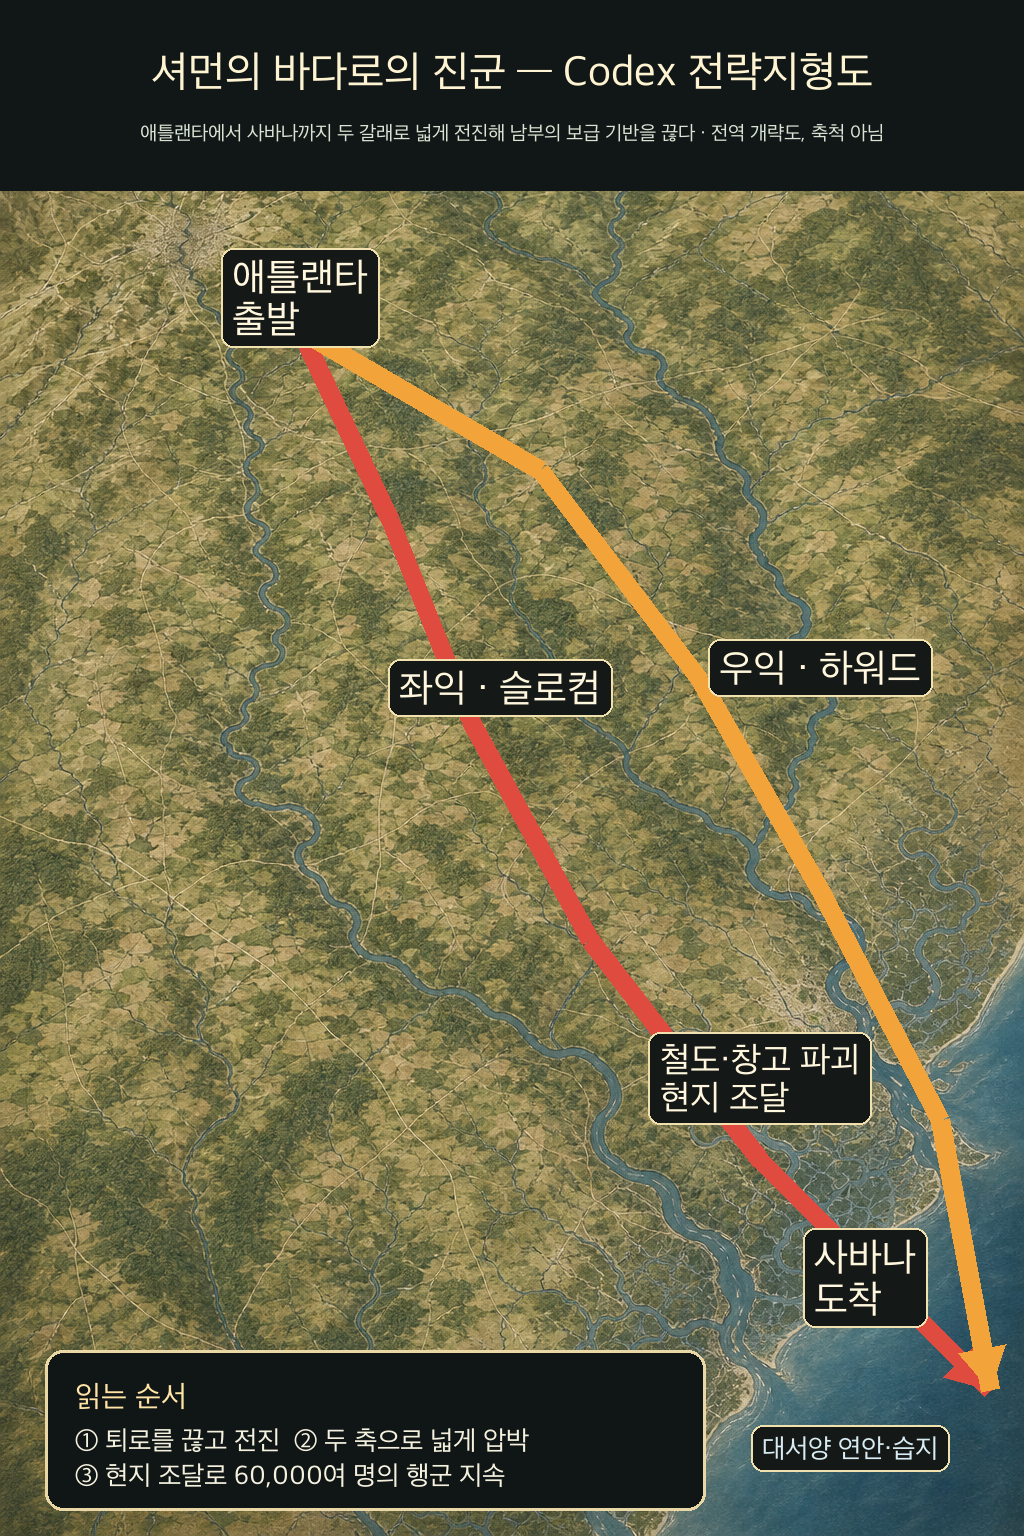
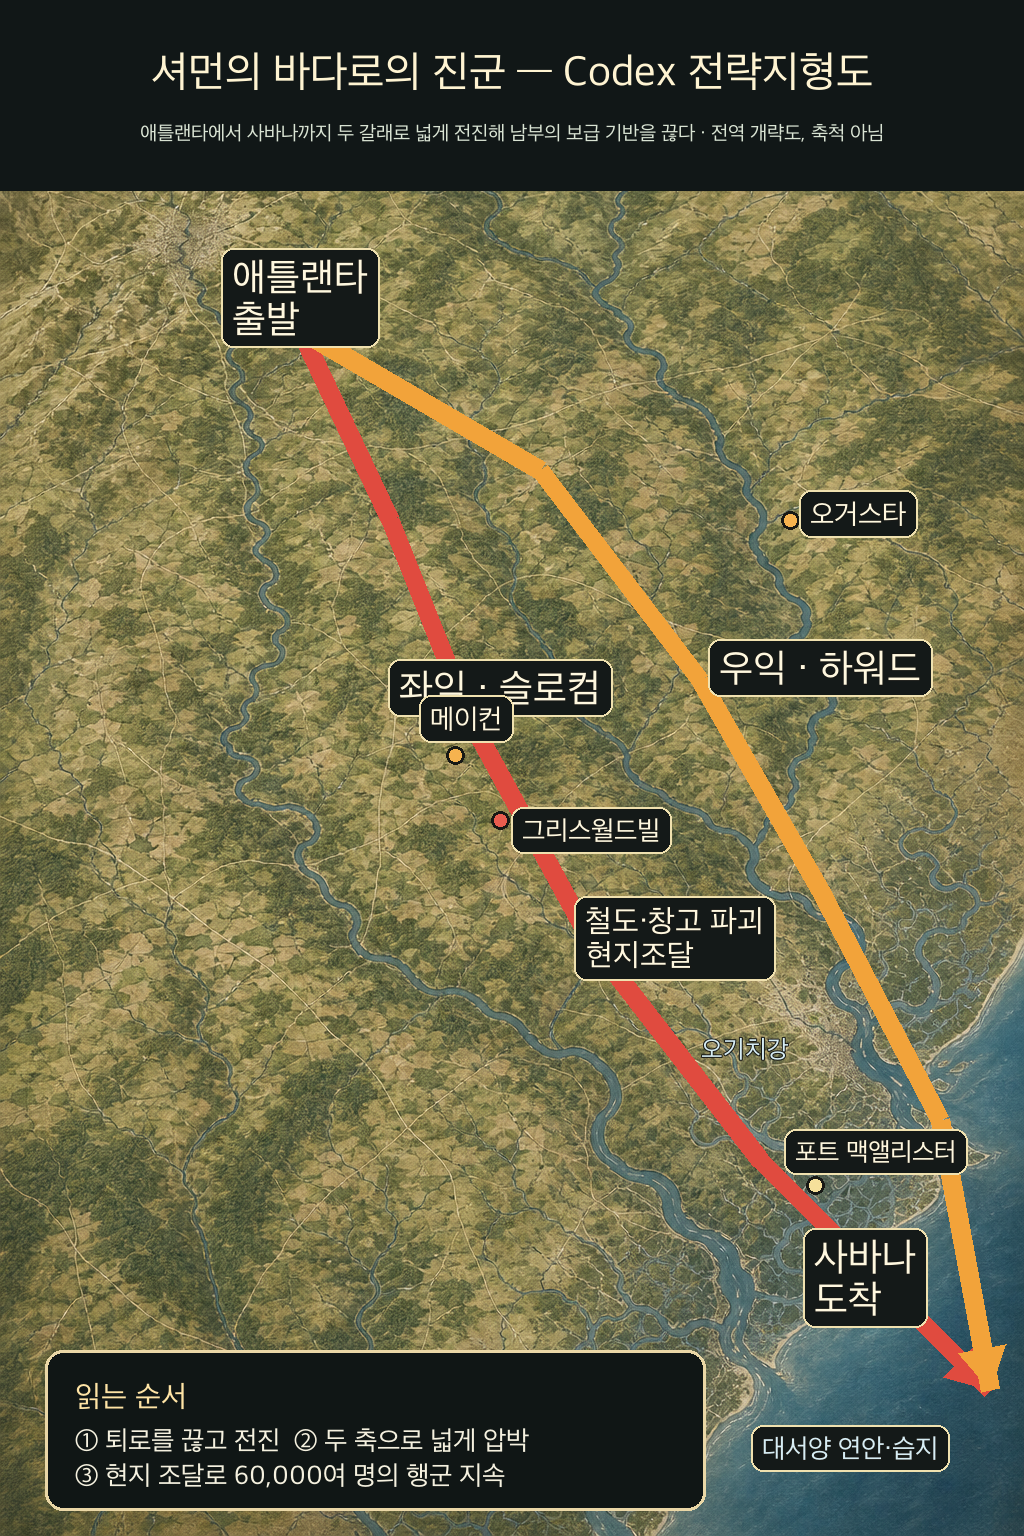
Add campaign sequence maps and narrative style rules

Changed region(s): [[0.4688, 0.5, 0.9375, 0.7812], [0.75, 0.3125, 0.9062, 0.375], [0.4062, 0.4375, 0.5, 0.5]]

diff --git a/손자병법/make_jiudi_11_codex_maps.py b/손자병법/make_jiudi_11_codex_maps.py
@@ -47,6 +47,13 @@ def label(draw, xy, text, *, size=42, fill="#fff8df", anchor="mm", box=True):
     draw.text(xy, text, font=font, fill=fill, anchor=anchor, stroke_width=1, stroke_fill="#171815")
 
 
+def site(draw, xy, text, *, color="#f7dd9b", dx=18, dy=-8, size=27):
+    """작은 거점 표식. 서사에 등장하는 지명을 지도에서 빠르게 찾게 한다."""
+    x, y = xy
+    draw.ellipse((x - 9, y - 9, x + 9, y + 9), fill=color, outline="#171815", width=3)
+    label(draw, (x + dx, y + dy), text, size=size, fill="#fff8df", anchor="lm")
+
+
 def arrow(draw, points, color, width=18):
     for a, b in zip(points, points[1:]):
         draw.line((a, b), fill=color, width=width, joint="curve")
@@ -89,7 +96,12 @@ def sherman_strategy():
         ((865, 1280), "사바나\n도착"),
     ]:
         label(draw, xy, txt, size=39)
-    label(draw, (760, 1080), "철도·창고 파괴\n현지 조달", size=35)
+    site(draw, (455, 755), "메이컨", color="#f6b34f", dx=-25, dy=-35, size=28)
+    site(draw, (790, 520), "오거스타", color="#f6b34f", dx=20, dy=-5, size=28)
+    site(draw, (500, 820), "그리스월드빌", color="#e95d4f", dx=22, dy=12, size=27)
+    site(draw, (815, 1185), "포트 맥앨리스터", color="#f6e09b", dx=-20, dy=-32, size=26)
+    label(draw, (745, 1050), "오기치강", size=25, fill="#d7edf4", box=False)
+    label(draw, (675, 940), "철도·창고 파괴\n현지조달", size=31)
     label(draw, (850, 1450), "대서양 연안·습지", size=27, fill="#d7edf4")
     draw.rounded_rectangle((45, 1350, 705, 1510), 18, fill=(16, 22, 21, 220), outline="#ead7a6", width=3)
     draw.text((75, 1380), "읽는 순서", font=pil_font(30), fill="#ffe4a5")
@@ -123,6 +135,10 @@ def sun_ce_strategy():
         label(draw, xy, txt, size=37)
     label(draw, (900, 500), "장강", size=43, fill="#d7edf4", box=False)
     label(draw, (765, 880), "승전 소문 →\n병력·호응 증가", size=35)
+    site(draw, (750, 1130), "고릉 방어선", color="#f6b34f", dx=-18, dy=-28, size=26)
+    site(draw, (820, 1210), "사독 우회로", color="#68c4b5", dx=-18, dy=18, size=26)
+    site(draw, (875, 1310), "회계", color="#e95d4f", dx=-20, dy=-30, size=27)
+    arrow(draw, [(735, 1110), (795, 1190), (875, 1310)], "#68c4b5", 12)
     draw.rounded_rectangle((45, 1350, 780, 1510), 18, fill=(16, 22, 21, 220), outline="#ead7a6", width=3)
     draw.text((75, 1380), "읽는 순서", font=pil_font(30), fill="#ffe4a5")
     draw.text(
@@ -207,8 +223,133 @@ def country_maps():
     )
 
 
+def sequence_panel(draw, box, title):
+    x0, y0, x1, y1 = box
+    draw.rounded_rectangle(box, radius=20, fill="#f7eed9", outline="#554a38", width=4)
+    draw.text((x0 + 24, y0 + 18), title, font=pil_font(34), fill="#211d17")
+    return x0, y0, x1, y1
+
+
+def node(draw, xy, text, color, *, size=26):
+    x, y = xy
+    draw.ellipse((x - 18, y - 18, x + 18, y + 18), fill=color, outline="#201b16", width=3)
+    draw.text((x, y + 28), text, font=pil_font(size), fill="#211d17", anchor="ma")
+
+
+def make_sequence_canvas(title, overview_path):
+    canvas = Image.new("RGB", (2400, 1600), "#e9ddc2")
+    draw = ImageDraw.Draw(canvas, "RGBA")
+    draw.rectangle((0, 0, 2400, 95), fill="#102235")
+    draw.text((40, 43), title, font=pil_font(50), fill="#fff1cf", anchor="lm")
+    overview = Image.open(overview_path).convert("RGB")
+    overview.thumbnail((970, 1460), Image.Resampling.LANCZOS)
+    canvas.paste(overview, (20, 115))
+    return canvas, draw
+
+
+def sherman_sequence():
+    canvas, draw = make_sequence_canvas(
+        "셔먼의 바다로의 진군 단계별 전략지형도",
+        ROOT / "sherman_march_codex_map.png",
+    )
+    panels = [
+        (1015, 115, 1695, 800),
+        (1710, 115, 2390, 800),
+        (1015, 815, 1695, 1500),
+        (1710, 815, 2390, 1500),
+    ]
+    # 1. 후드가 내민 추격전 거부
+    x0, y0, _, _ = sequence_panel(draw, panels[0], "1. 후드 추격 거부")
+    node(draw, (x0 + 175, y0 + 230), "애틀랜타", "#d94a3d")
+    node(draw, (x0 + 485, y0 + 170), "후드·테네시", "#164d86")
+    node(draw, (x0 + 475, y0 + 480), "조지아 내부", "#d94a3d")
+    arrow(draw, [(x0 + 210, y0 + 215), (x0 + 425, y0 + 175)], "#164d86", 13)
+    arrow(draw, [(x0 + 205, y0 + 245), (x0 + 430, y0 + 450)], "#d94a3d", 15)
+    draw.text((x0 + 55, y0 + 570), "토머스는 후드를 맡고\n셔먼은 반대 방향으로 진군", font=pil_font(28), fill="#3b3022")
+
+    # 2. 양익 기만
+    x0, y0, _, _ = sequence_panel(draw, panels[1], "2. 양익 기만·목표 은폐")
+    node(draw, (x0 + 120, y0 + 230), "애틀랜타", "#d94a3d", size=24)
+    node(draw, (x0 + 330, y0 + 430), "메이컨", "#f0a33a", size=24)
+    node(draw, (x0 + 500, y0 + 210), "오거스타", "#f0a33a", size=24)
+    node(draw, (x0 + 560, y0 + 520), "사바나", "#d94a3d", size=24)
+    arrow(draw, [(x0 + 145, y0 + 240), (x0 + 300, y0 + 405), (x0 + 535, y0 + 500)], "#d94a3d", 13)
+    arrow(draw, [(x0 + 145, y0 + 220), (x0 + 460, y0 + 220), (x0 + 550, y0 + 495)], "#f0a33a", 13)
+    draw.text((x0 + 45, y0 + 575), "하디: 메이컨 → 오거스타로 판단 변경\n병력이 움직일수록 사바나가 비었다", font=pil_font(26), fill="#3b3022")
+
+    # 3. 그리스월드빌
+    x0, y0, _, _ = sequence_panel(draw, panels[2], "3. 그리스월드빌의 오판")
+    draw.rectangle((x0 + 355, y0 + 240, x0 + 580, y0 + 285), fill="#164d86")
+    draw.text((x0 + 465, y0 + 310), "월컷 여단·방어진지", font=pil_font(25), fill="#211d17", anchor="ma")
+    for off in (0, 90, 180):
+        arrow(draw, [(x0 + 120 + off, y0 + 500), (x0 + 380 + off // 3, y0 + 300)], "#d94a3d", 12)
+    draw.text((x0 + 75, y0 + 190), "필립스는 숙련 보병을\n소규모 하마 기병으로 오판", font=pil_font(27), fill="#6b2821")
+    draw.text((x0 + 75, y0 + 580), "세 차례 정면 공격\n남군 약 650명 손실", font=pil_font(27), fill="#3b3022")
+
+    # 4. 보급로와 결말
+    x0, y0, _, _ = sequence_panel(draw, panels[3], "4. 포트 맥앨리스터·사바나")
+    node(draw, (x0 + 230, y0 + 400), "포트 맥앨리스터", "#f0a33a", size=23)
+    node(draw, (x0 + 500, y0 + 300), "사바나", "#d94a3d", size=25)
+    arrow(draw, [(x0 + 90, y0 + 500), (x0 + 210, y0 + 420)], "#d94a3d", 14)
+    arrow(draw, [(x0 + 570, y0 + 550), (x0 + 280, y0 + 430)], "#2b91b1", 14)
+    arrow(draw, [(x0 + 505, y0 + 280), (x0 + 590, y0 + 150)], "#164d86", 13)
+    draw.text((x0 + 55, y0 + 145), "하디 철수", font=pil_font(26), fill="#164d86")
+    draw.text((x0 + 55, y0 + 570), "헤이즌이 요새 점령\n함대의 정규 보급로가 열림", font=pil_font(27), fill="#3b3022")
+    canvas.save(ROOT / "sherman_march_codex_sequence_map.png", quality=95)
+
+
+def sun_ce_sequence():
+    canvas, draw = make_sequence_canvas(
+        "손책의 강동 평정 단계별 전략지형도",
+        ROOT / "sun_ce_jiangdong_codex_map.png",
+    )
+    panels = [
+        (1015, 115, 1695, 800),
+        (1710, 115, 2390, 800),
+        (1015, 815, 1695, 1500),
+        (1710, 815, 2390, 1500),
+    ]
+    # 1. 원술의 제한된 지원과 주유의 보강
+    x0, y0, _, _ = sequence_panel(draw, panels[0], "1. 작은 출발·주유 합류")
+    node(draw, (x0 + 150, y0 + 300), "손책 1,000여 명", "#d94a3d", size=24)
+    node(draw, (x0 + 500, y0 + 300), "주유", "#f0a33a", size=25)
+    arrow(draw, [(x0 + 460, y0 + 300), (x0 + 210, y0 + 300)], "#f0a33a", 14)
+    draw.text((x0 + 75, y0 + 450), "병력·선박·군량이 합쳐져\n도강 가능한 원정군이 됐다", font=pil_font(28), fill="#3b3022")
+
+    # 2. 나루와 창고
+    x0, y0, _, _ = sequence_panel(draw, panels[1], "2. 횡강·당리 도하, 우저 장악")
+    draw.line((x0 + 50, y0 + 300, x0 + 630, y0 + 300), fill="#4e9bb2", width=55)
+    node(draw, (x0 + 180, y0 + 300), "횡강", "#f0a33a", size=23)
+    node(draw, (x0 + 360, y0 + 300), "당리", "#f0a33a", size=23)
+    node(draw, (x0 + 540, y0 + 470), "우저 창고", "#d94a3d", size=23)
+    arrow(draw, [(x0 + 90, y0 + 160), (x0 + 210, y0 + 340), (x0 + 510, y0 + 440)], "#d94a3d", 14)
+    draw.text((x0 + 55, y0 + 575), "나루를 연 뒤 유요의 군량·병기를\n다음 공격의 보급으로 전환", font=pil_font(27), fill="#3b3022")
+
+    # 3. 유요와 태사자
+    x0, y0, _, _ = sequence_panel(draw, panels[2], "3. 유요가 쓰지 못한 태사자")
+    node(draw, (x0 + 160, y0 + 310), "유요", "#164d86", size=25)
+    node(draw, (x0 + 500, y0 + 310), "태사자", "#f0a33a", size=25)
+    draw.line((x0 + 220, y0 + 310, x0 + 440, y0 + 310), fill="#7a7368", width=8)
+    draw.line((x0 + 320, y0 + 260, x0 + 340, y0 + 360), fill="#a5322a", width=10)
+    draw.line((x0 + 340, y0 + 260, x0 + 320, y0 + 360), fill="#a5322a", width=10)
+    draw.text((x0 + 65, y0 + 455), "허소의 평판을 의식해\n대장 대신 정찰 임무만 맡김", font=pil_font(28), fill="#3b3022")
+    draw.text((x0 + 65, y0 + 570), "인재가 없었던 것이 아니라\n권한을 주지 못했다", font=pil_font(27), fill="#6b2821")
+
+    # 4. 사독 우회와 흡수
+    x0, y0, _, _ = sequence_panel(draw, panels[3], "4. 손정의 사독 우회·세력 흡수")
+    node(draw, (x0 + 150, y0 + 300), "고릉 방어선", "#164d86", size=23)
+    node(draw, (x0 + 350, y0 + 500), "사독", "#68c4b5", size=24)
+    node(draw, (x0 + 545, y0 + 280), "회계", "#d94a3d", size=25)
+    arrow(draw, [(x0 + 90, y0 + 250), (x0 + 330, y0 + 470), (x0 + 520, y0 + 300)], "#68c4b5", 14)
+    draw.text((x0 + 65, y0 + 120), "횃불로 정면에 남은 듯 속이고\n사독으로 우회해 왕랑의 후방을 공격", font=pil_font(26), fill="#3b3022")
+    draw.text((x0 + 65, y0 + 590), "태사자에게 재량을 줘\n유요 잔병까지 편입", font=pil_font(27), fill="#6b2821")
+    canvas.save(ROOT / "sun_ce_jiangdong_codex_sequence_map.png", quality=95)
+
+
 if __name__ == "__main__":
     sherman_strategy()
     sun_ce_strategy()
     country_maps()
-    print("MAPS_OK: 전략지형도 2장 + 국가 위치도 2장")
+    sherman_sequence()
+    sun_ce_sequence()
+    print("MAPS_OK: 전략지형도 2장 + 국가 위치도 2장 + 단계판 2장")

diff --git a/손자병법/notion_drafts/jiudi_11_narrative_revision.md b/손자병법/notion_drafts/jiudi_11_narrative_revision.md
@@ -43,6 +43,8 @@
 
 ![셔먼의 바다로의 진군 Codex 전략지형도](https://raw.githubusercontent.com/ForrestDPark/DailyHelloWorld/main/%EC%86%90%EC%9E%90%EB%B3%91%EB%B2%95/sherman_march_codex_map.png)
 
+![셔먼의 바다로의 진군 단계별 전략지형도](https://raw.githubusercontent.com/ForrestDPark/DailyHelloWorld/main/%EC%86%90%EC%9E%90%EB%B3%91%EB%B2%95/sherman_march_codex_sequence_map.png)
+
 애틀랜타가 함락된 뒤 남군의 존 벨 후드는 북쪽으로 움직여 셔먼이 뒤쫓아오기를 바랐다. 그러나 셔먼은 그가 내민 길을 따라가지 않았다. 조지 토머스에게 테네시 방어를 맡기고 자신은 약 6만 명을 이끌고 동쪽으로 몸을 돌렸다. 이는 `致人而不致於人`(치인이불치어인, 적을 끌어오되 적에게 끌려가지 않음)의 선택이었다. 11월 중순 전신선과 철도를 끊은 두 날개는 메이컨과 오거스타를 동시에 위협하는 듯 벌어져, 하디로 하여금 목표가 어디인지 끝까지 확신하지 못하게 했다. `形人而我無形`(형인이아무형, 적에게는 형체를 드러내게 하고 나는 형체를 감춤)이 60마일 너비의 행군로 위에서 구현됐다. 하지만 이 기동은 식량이 저절로 생긴다는 뜻이 아니었다. 특별야전명령 제120호는 각 여단이 조직한 현지조달반으로 식량과 사료를 취하게 하되 병사가 민가에 함부로 들어가지 못하도록 규정했다. 명령과 실제 행군 사이에는 약탈과 파괴가 통제를 넘어선 간극도 있었으므로, `掠於饒野`를 민간 피해 없는 낭만적인 자급전으로 미화해서는 안 된다.[^https://history.army.mil/Publications/Publications-Catalog/The-Atlanta-and-Savannah-Campaigns/]
 
 #### 전초 — 후드가 내민 길을 거부하다
@@ -66,6 +68,8 @@
 ![손책의 강동 평정 중국 국가 위치도](https://raw.githubusercontent.com/ForrestDPark/DailyHelloWorld/main/%EC%86%90%EC%9E%90%EB%B3%91%EB%B2%95/sun_ce_jiangdong_country_map.png)
 
 ![손책의 강동 평정 Codex 전략지형도](https://raw.githubusercontent.com/ForrestDPark/DailyHelloWorld/main/%EC%86%90%EC%9E%90%EB%B3%91%EB%B2%95/sun_ce_jiangdong_codex_map.png)
+
+![손책의 강동 평정 단계별 전략지형도](https://raw.githubusercontent.com/ForrestDPark/DailyHelloWorld/main/%EC%86%90%EC%9E%90%EB%B3%91%EB%B2%95/sun_ce_jiangdong_codex_sequence_map.png)
 
 손책은 아버지 손견의 옛 군대를 되찾고 싶었지만 원술은 약속을 번번이 미뤘다. 마침내 손책이 받은 것은 병사 천여 명과 기병 수십 기에 불과했다. 그러나 역양으로 가는 길에 사람이 모였고, 주유는 병력뿐 아니라 배와 군량까지 마련해 합류했다. 두 사람이 장강을 건너 횡강과 당리의 나루를 깨뜨리고 우저를 점령하자, 유요가 쌓아둔 곡식과 무기까지 손책의 손에 들어갔다. `因糧於敵`(인량어적, 적에게서 군량을 얻음)이 단숨에 원정군의 다리를 놓은 순간이었다. 유요에게는 태사자라는 칼이 있었지만, 그는 “태사자를 쓰면 허소가 나를 비웃지 않겠는가”라며 중용하지 않았다. 손책은 그 틈을 놓치지 않고 착융·설례의 거점을 차례로 무너뜨려 곡아까지 밀고 들어갔다. 패배한 태사자가 훗날 붙잡혀 오자 손책은 결박부터 풀고, 유요의 남은 병사들을 불러올 수 있겠느냐고 물었다. 태사자가 기한 안에 돌아오자 의심하던 이들은 입을 다물었고, 적의 장수와 병사는 손책의 새 전력이 됐다. 이 전역은 적의 곡식만 취한 약탈전이 아니라 **적지의 물자·인재·민심을 차례로 자기 기반으로 바꾼 창업전**이었다.[^https://ctext.org/sanguozhi/46][^https://ctext.org/sanguozhi/49][^https://ctext.org/sanguozhi/54]
 
